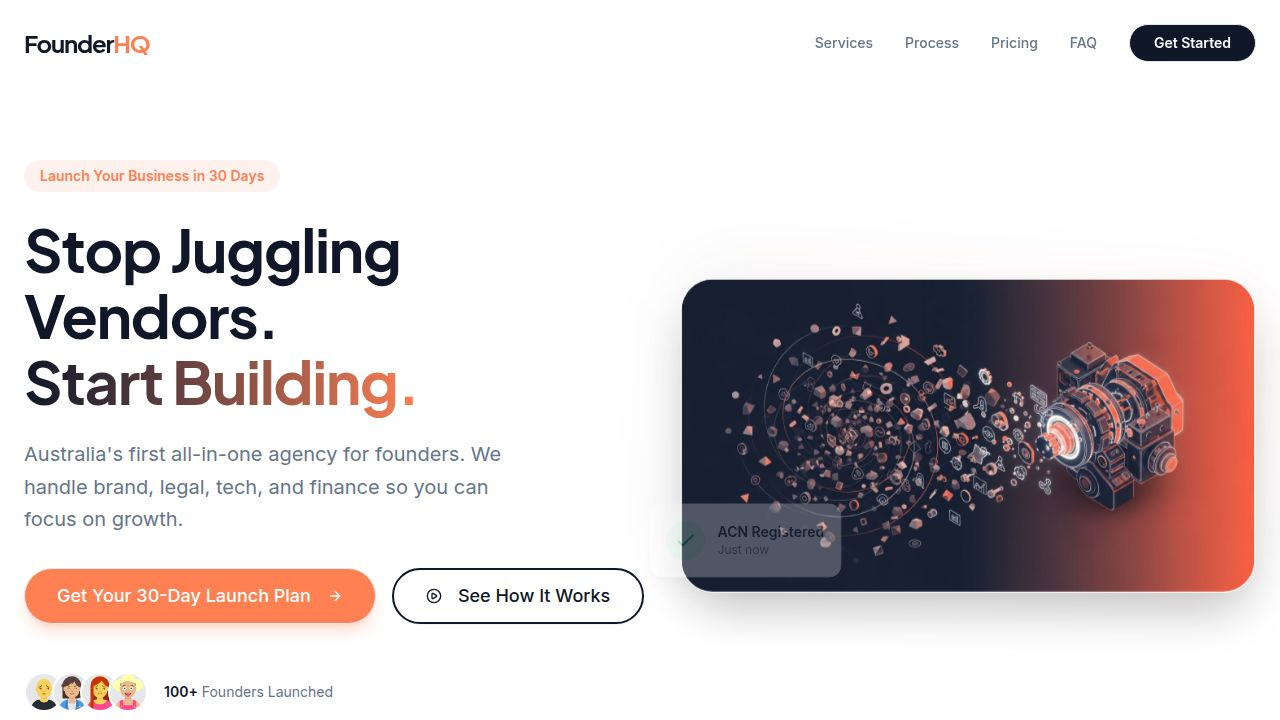
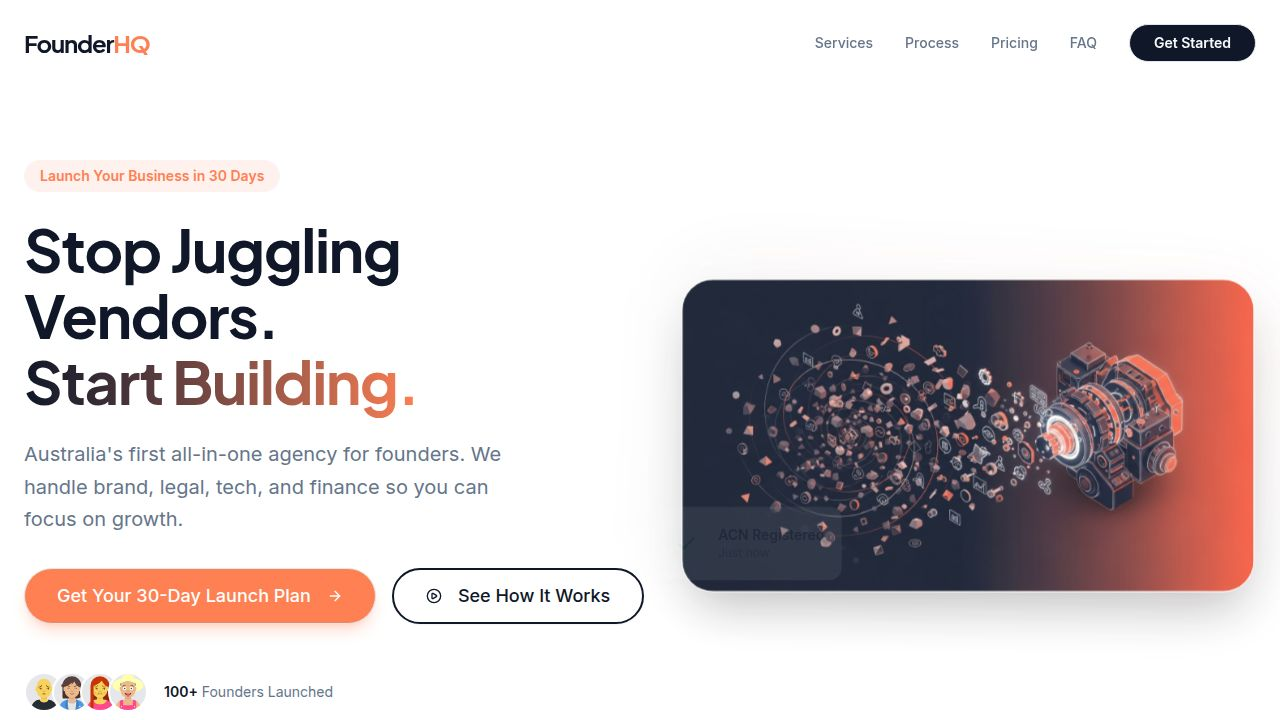
Add a dedicated page for brand design services and improve site navigation
Adds a new route for the Brand Strategy page, updates navigation links in the footer and services component to point to the new page, and implements a scroll-to-top functionality for route changes.

Replit-Commit-Author: Agent
Replit-Commit-Session-Id: 4b52b8b1-7ccd-4e95-8455-94e68e7f6c9f
Replit-Commit-Checkpoint-Type: full_checkpoint
Replit-Commit-Event-Id: c4c8c7c6-91c1-4811-b736-d874b7e73054
Replit-Commit-Screenshot-Url: https://storage.googleapis.com/screenshot-production-us-central1/6d9a906e-b85a-408f-a508-152b1a6c6749/4b52b8b1-7ccd-4e95-8455-94e68e7f6c9f/Cz8gWVx
Replit-Helium-Checkpoint-Created: true

Changed region(s): [[0.5312, 0.6722, 0.6562, 0.825], [0.8438, 0.4889, 0.9062, 0.6417]]

diff --git a/client/src/pages/BrandStrategy.tsx b/client/src/pages/BrandStrategy.tsx
@@ -1,0 +1,178 @@
+import { motion } from "framer-motion";
+import Navbar from "@/components/landing/Navbar";
+import Footer from "@/components/landing/Footer";
+import { Button } from "@/components/ui/button";
+import { ArrowRight, Check, Palette, Target, Layers } from "lucide-react";
+// Placeholder import - will be replaced by tool
+import heroImage from "@assets/generated_images/abstract_creative_design_studio_hero_background.png"; 
+
+export default function BrandStrategy() {
+  return (
+    <div className="min-h-screen bg-background font-sans text-foreground">
+      <Navbar />
+      
+      {/* Hero Section */}
+      <section className="relative pt-32 pb-20 overflow-hidden bg-primary text-primary-foreground">
+        <div className="container mx-auto px-4 md:px-6 relative z-10">
+          <div className="grid grid-cols-1 lg:grid-cols-2 gap-12 items-center">
+            <motion.div
+              initial={{ opacity: 0, y: 20 }}
+              animate={{ opacity: 1, y: 0 }}
+              transition={{ duration: 0.6 }}
+            >
+              <div className="inline-block px-4 py-1.5 mb-6 bg-accent/20 text-accent font-semibold rounded-full text-sm">
+                Strategic Design
+              </div>
+              <h1 className="text-4xl md:text-6xl font-heading font-bold mb-6 leading-tight">
+                Build a Brand That <br />
+                <span className="text-accent">Demands Attention.</span>
+              </h1>
+              <p className="text-lg md:text-xl text-blue-100 mb-8 max-w-lg leading-relaxed">
+                More than just a logo. We craft complete identity systems that position you as the market leader from Day 1.
+              </p>
+              <Button size="lg" className="bg-accent text-primary hover:bg-accent/90 rounded-full px-8 h-12 font-bold">
+                View Packages
+              </Button>
+            </motion.div>
+            
+            <motion.div
+              initial={{ opacity: 0, scale: 0.95 }}
+              animate={{ opacity: 1, scale: 1 }}
+              transition={{ duration: 0.8, delay: 0.2 }}
+              className="relative"
+            >
+               {/* This will be replaced with the generated image */}
+              <div className="rounded-2xl overflow-hidden shadow-2xl border border-white/10 aspect-video bg-blue-900/50 flex items-center justify-center">
+                 <img src={heroImage} alt="Brand Strategy Hero" className="w-full h-full object-cover" />
+              </div>
+            </motion.div>
+          </div>
+        </div>
+      </section>
+
+      {/* Process Section */}
+      <section className="py-24 bg-white">
+        <div className="container mx-auto px-4 md:px-6">
+          <div className="text-center max-w-2xl mx-auto mb-16">
+            <h2 className="text-3xl md:text-4xl font-heading font-bold text-primary mb-4">
+              Our Design Process
+            </h2>
+            <p className="text-lg text-muted-foreground">
+              We move from abstract strategy to concrete visual assets.
+            </p>
+          </div>
+
+          <div className="grid grid-cols-1 md:grid-cols-3 gap-8">
+            {[
+              {
+                icon: Target,
+                title: "1. Strategy & Positioning",
+                desc: "We analyze your market, competitors, and audience to define your 'Onlyness' factor."
+              },
+              {
+                icon: Palette,
+                title: "2. Visual Identity",
+                desc: "We explore creative directions, refining color palettes, typography, and logo marks."
+              },
+              {
+                icon: Layers,
+                title: "3. Brand System",
+                desc: "We build a comprehensive design system so your brand looks consistent everywhere."
+              }
+            ].map((step, i) => (
+              <motion.div 
+                key={i}
+                initial={{ opacity: 0, y: 20 }}
+                whileInView={{ opacity: 1, y: 0 }}
+                viewport={{ once: true }}
+                transition={{ delay: i * 0.2 }}
+                className="p-8 bg-secondary/30 rounded-2xl border border-gray-100"
+              >
+                <div className="w-12 h-12 bg-primary/10 text-primary rounded-full flex items-center justify-center mb-6">
+                  <step.icon className="w-6 h-6" />
+                </div>
+                <h3 className="text-xl font-bold text-primary mb-3">{step.title}</h3>
+                <p className="text-muted-foreground">{step.desc}</p>
+              </motion.div>
+            ))}
+          </div>
+        </div>
+      </section>
+
+      {/* Packages Section */}
+      <section className="py-24 bg-secondary/20">
+        <div className="container mx-auto px-4 md:px-6">
+          <div className="text-center max-w-2xl mx-auto mb-16">
+            <h2 className="text-3xl md:text-4xl font-heading font-bold text-primary mb-4">
+              Brand Packages
+            </h2>
+            <p className="text-lg text-muted-foreground">
+              Choose the level of depth your business needs.
+            </p>
+          </div>
+
+          <div className="grid grid-cols-1 md:grid-cols-3 gap-8 max-w-6xl mx-auto">
+            {[
+              {
+                name: "Identity Starter",
+                price: "$2,499",
+                features: ["Primary Logo Design", "Color Palette", "Typography Selection", "Basic Usage Guidelines", "Social Media Avatars"],
+                cta: "Get Started"
+              },
+              {
+                name: "Full Brand Suite",
+                price: "$4,999",
+                popular: true,
+                features: ["Everything in Starter", "Secondary Logos & Icons", "Pattern & Texture Library", "Social Media Templates", "Stationery Design", "Comprehensive Brand Book"],
+                cta: "Most Popular"
+              },
+              {
+                name: "Enterprise System",
+                price: "Custom",
+                features: ["Everything in Suite", "Sub-brand Architecture", "UI/UX Design System", "Motion Graphics/Intro", "Marketing Collateral Kit", "Brand Strategy Workshop"],
+                cta: "Contact Us"
+              }
+            ].map((pkg, i) => (
+              <motion.div
+                key={i}
+                initial={{ opacity: 0, y: 20 }}
+                whileInView={{ opacity: 1, y: 0 }}
+                viewport={{ once: true }}
+                transition={{ delay: i * 0.1 }}
+                className={`relative p-8 rounded-3xl border flex flex-col bg-white ${pkg.popular ? 'border-accent shadow-xl scale-105 z-10' : 'border-gray-200 shadow-sm'}`}
+              >
+                {pkg.popular && (
+                  <div className="absolute top-0 left-1/2 -translate-x-1/2 -translate-y-1/2 bg-accent text-white text-sm font-bold px-4 py-1 rounded-full shadow-md">
+                    Recommended
+                  </div>
+                )}
+                
+                <div className="mb-8">
+                  <h3 className="text-xl font-bold text-primary mb-2">{pkg.name}</h3>
+                  <div className="text-3xl font-bold text-primary mb-2">{pkg.price}</div>
+                </div>
+
+                <ul className="space-y-4 mb-8 flex-grow">
+                  {pkg.features.map((feat, j) => (
+                    <li key={j} className="flex items-start gap-3 text-sm">
+                      <Check className={`w-5 h-5 shrink-0 ${pkg.popular ? 'text-accent' : 'text-primary/50'}`} />
+                      <span className="text-foreground/80">{feat}</span>
+                    </li>
+                  ))}
+                </ul>
+
+                <Button 
+                  className={`w-full rounded-full py-6 font-bold ${pkg.popular ? 'bg-primary hover:bg-primary/90' : 'bg-secondary hover:bg-secondary/80 text-primary'}`}
+                >
+                  {pkg.cta}
+                </Button>
+              </motion.div>
+            ))}
+          </div>
+        </div>
+      </section>
+
+      <Footer />
+    </div>
+  );
+}

diff --git a/client/src/components/landing/Services.tsx b/client/src/components/landing/Services.tsx
@@ -8,15 +8,16 @@ import {
   Laptop,
   Bot
 } from "lucide-react";
+import { Link } from "wouter";
 
 const services = [
-  { icon: Scale, title: "Legal & Compliance", desc: "Contracts, terms, structuring, and regulatory compliance." },
-  { icon: Palette, title: "Brand Design & Strategy", desc: "Logo, visual identity, brand voice, and market positioning." },
-  { icon: Monitor, title: "Digital Presence", desc: "High-converting websites, web apps, and digital footprint." },
-  { icon: Megaphone, title: "Digital Marketing", desc: "SEO, PPC, email marketing, and growth campaigns." },
-  { icon: Share2, title: "Social Media Management", desc: "Content strategy, creation, scheduling, and community engagement." },
-  { icon: Laptop, title: "IT & Tech Support", desc: "Infrastructure setup, security, and ongoing technical assistance." },
-  { icon: Bot, title: "Artificial Intelligence", desc: "AI integration, automation workflows, and custom LLM solutions." },
+  { icon: Scale, title: "Legal & Compliance", desc: "Contracts, terms, structuring, and regulatory compliance.", href: "#" },
+  { icon: Palette, title: "Brand Design & Strategy", desc: "Logo, visual identity, brand voice, and market positioning.", href: "/services/brand-strategy" },
+  { icon: Monitor, title: "Digital Presence", desc: "High-converting websites, web apps, and digital footprint.", href: "#" },
+  { icon: Megaphone, title: "Digital Marketing", desc: "SEO, PPC, email marketing, and growth campaigns.", href: "#" },
+  { icon: Share2, title: "Social Media Management", desc: "Content strategy, creation, scheduling, and community engagement.", href: "#" },
+  { icon: Laptop, title: "IT & Tech Support", desc: "Infrastructure setup, security, and ongoing technical assistance.", href: "#" },
+  { icon: Bot, title: "Artificial Intelligence", desc: "AI integration, automation workflows, and custom LLM solutions.", href: "#" },
 ];
 
 export default function Services() {
@@ -40,16 +41,25 @@ export default function Services() {
               whileInView={{ opacity: 1, scale: 1 }}
               viewport={{ once: true }}
               transition={{ delay: index * 0.05 }}
-              className="group p-8 rounded-2xl bg-white border border-gray-100 hover:border-primary/20 hover:shadow-lg transition-all duration-300"
+              className="group p-8 rounded-2xl bg-white border border-gray-100 hover:border-primary/20 hover:shadow-lg transition-all duration-300 relative"
             >
               <div className="w-12 h-12 bg-primary/5 text-primary rounded-xl flex items-center justify-center mb-6 group-hover:bg-primary group-hover:text-white transition-colors duration-300">
                 <service.icon className="w-6 h-6" />
               </div>
               <h3 className="text-xl font-bold text-primary mb-3">{service.title}</h3>
               <p className="text-muted-foreground mb-4">{service.desc}</p>
-              <a href="#" className="text-sm font-semibold text-accent hover:text-accent/80 flex items-center gap-1">
-                Learn more <span className="group-hover:translate-x-1 transition-transform">→</span>
-              </a>
+              
+              {service.href !== "#" ? (
+                <Link href={service.href}>
+                  <a className="text-sm font-semibold text-accent hover:text-accent/80 flex items-center gap-1">
+                    Learn more <span className="group-hover:translate-x-1 transition-transform">→</span>
+                  </a>
+                </Link>
+              ) : (
+                <span className="text-sm font-semibold text-muted-foreground/50 cursor-not-allowed flex items-center gap-1">
+                  Coming Soon
+                </span>
+              )}
             </motion.div>
           ))}
         </div>

diff --git a/client/src/components/landing/Footer.tsx b/client/src/components/landing/Footer.tsx
@@ -1,4 +1,5 @@
 import { Facebook, Twitter, Instagram, Linkedin } from "lucide-react";
+import { Link } from "wouter";
 
 export default function Footer() {
   return (
@@ -6,9 +7,11 @@ export default function Footer() {
       <div className="container mx-auto px-4 md:px-6">
         <div className="grid grid-cols-1 md:grid-cols-4 gap-12 mb-12">
           <div className="col-span-1 md:col-span-2">
-            <a href="/" className="text-2xl font-heading font-bold text-primary tracking-tighter mb-4 block">
-              Founder<span className="text-accent">HQ</span>
-            </a>
+            <Link href="/">
+              <a className="text-2xl font-heading font-bold text-primary tracking-tighter mb-4 block">
+                Founder<span className="text-accent">HQ</span>
+              </a>
+            </Link>
             <p className="text-muted-foreground max-w-sm leading-relaxed">
               The all-in-one launch partner for Australian founders. We replace fragmentation with focus, so you can build the future.
             </p>
@@ -25,7 +28,11 @@ export default function Footer() {
             <h4 className="font-bold text-primary mb-4">Services</h4>
             <ul className="space-y-2 text-sm text-muted-foreground">
               <li><a href="#" className="hover:text-primary">Legal & Compliance</a></li>
-              <li><a href="#" className="hover:text-primary">Brand Design & Strategy</a></li>
+              <li>
+                <Link href="/services/brand-strategy">
+                  <a className="hover:text-primary">Brand Design & Strategy</a>
+                </Link>
+              </li>
               <li><a href="#" className="hover:text-primary">Digital Presence</a></li>
               <li><a href="#" className="hover:text-primary">Digital Marketing</a></li>
               <li><a href="#" className="hover:text-primary">Social Media Management</a></li>

diff --git a/client/src/App.tsx b/client/src/App.tsx
@@ -4,14 +4,29 @@ import { QueryClientProvider } from "@tanstack/react-query";
 import { Toaster } from "@/components/ui/toaster";
 import { TooltipProvider } from "@/components/ui/tooltip";
 import Home from "@/pages/Home";
+import BrandStrategy from "@/pages/BrandStrategy";
 import NotFound from "@/pages/not-found";
+import { useEffect } from "react";
+import { useLocation } from "wouter";
+
+function ScrollToTop() {
+  const [location] = useLocation();
+  useEffect(() => {
+    window.scrollTo(0, 0);
+  }, [location]);
+  return null;
+}
 
 function Router() {
   return (
-    <Switch>
-      <Route path="/" component={Home} />
-      <Route component={NotFound} />
-    </Switch>
+    <>
+      <ScrollToTop />
+      <Switch>
+        <Route path="/" component={Home} />
+        <Route path="/services/brand-strategy" component={BrandStrategy} />
+        <Route component={NotFound} />
+      </Switch>
+    </>
   );
 }
 
